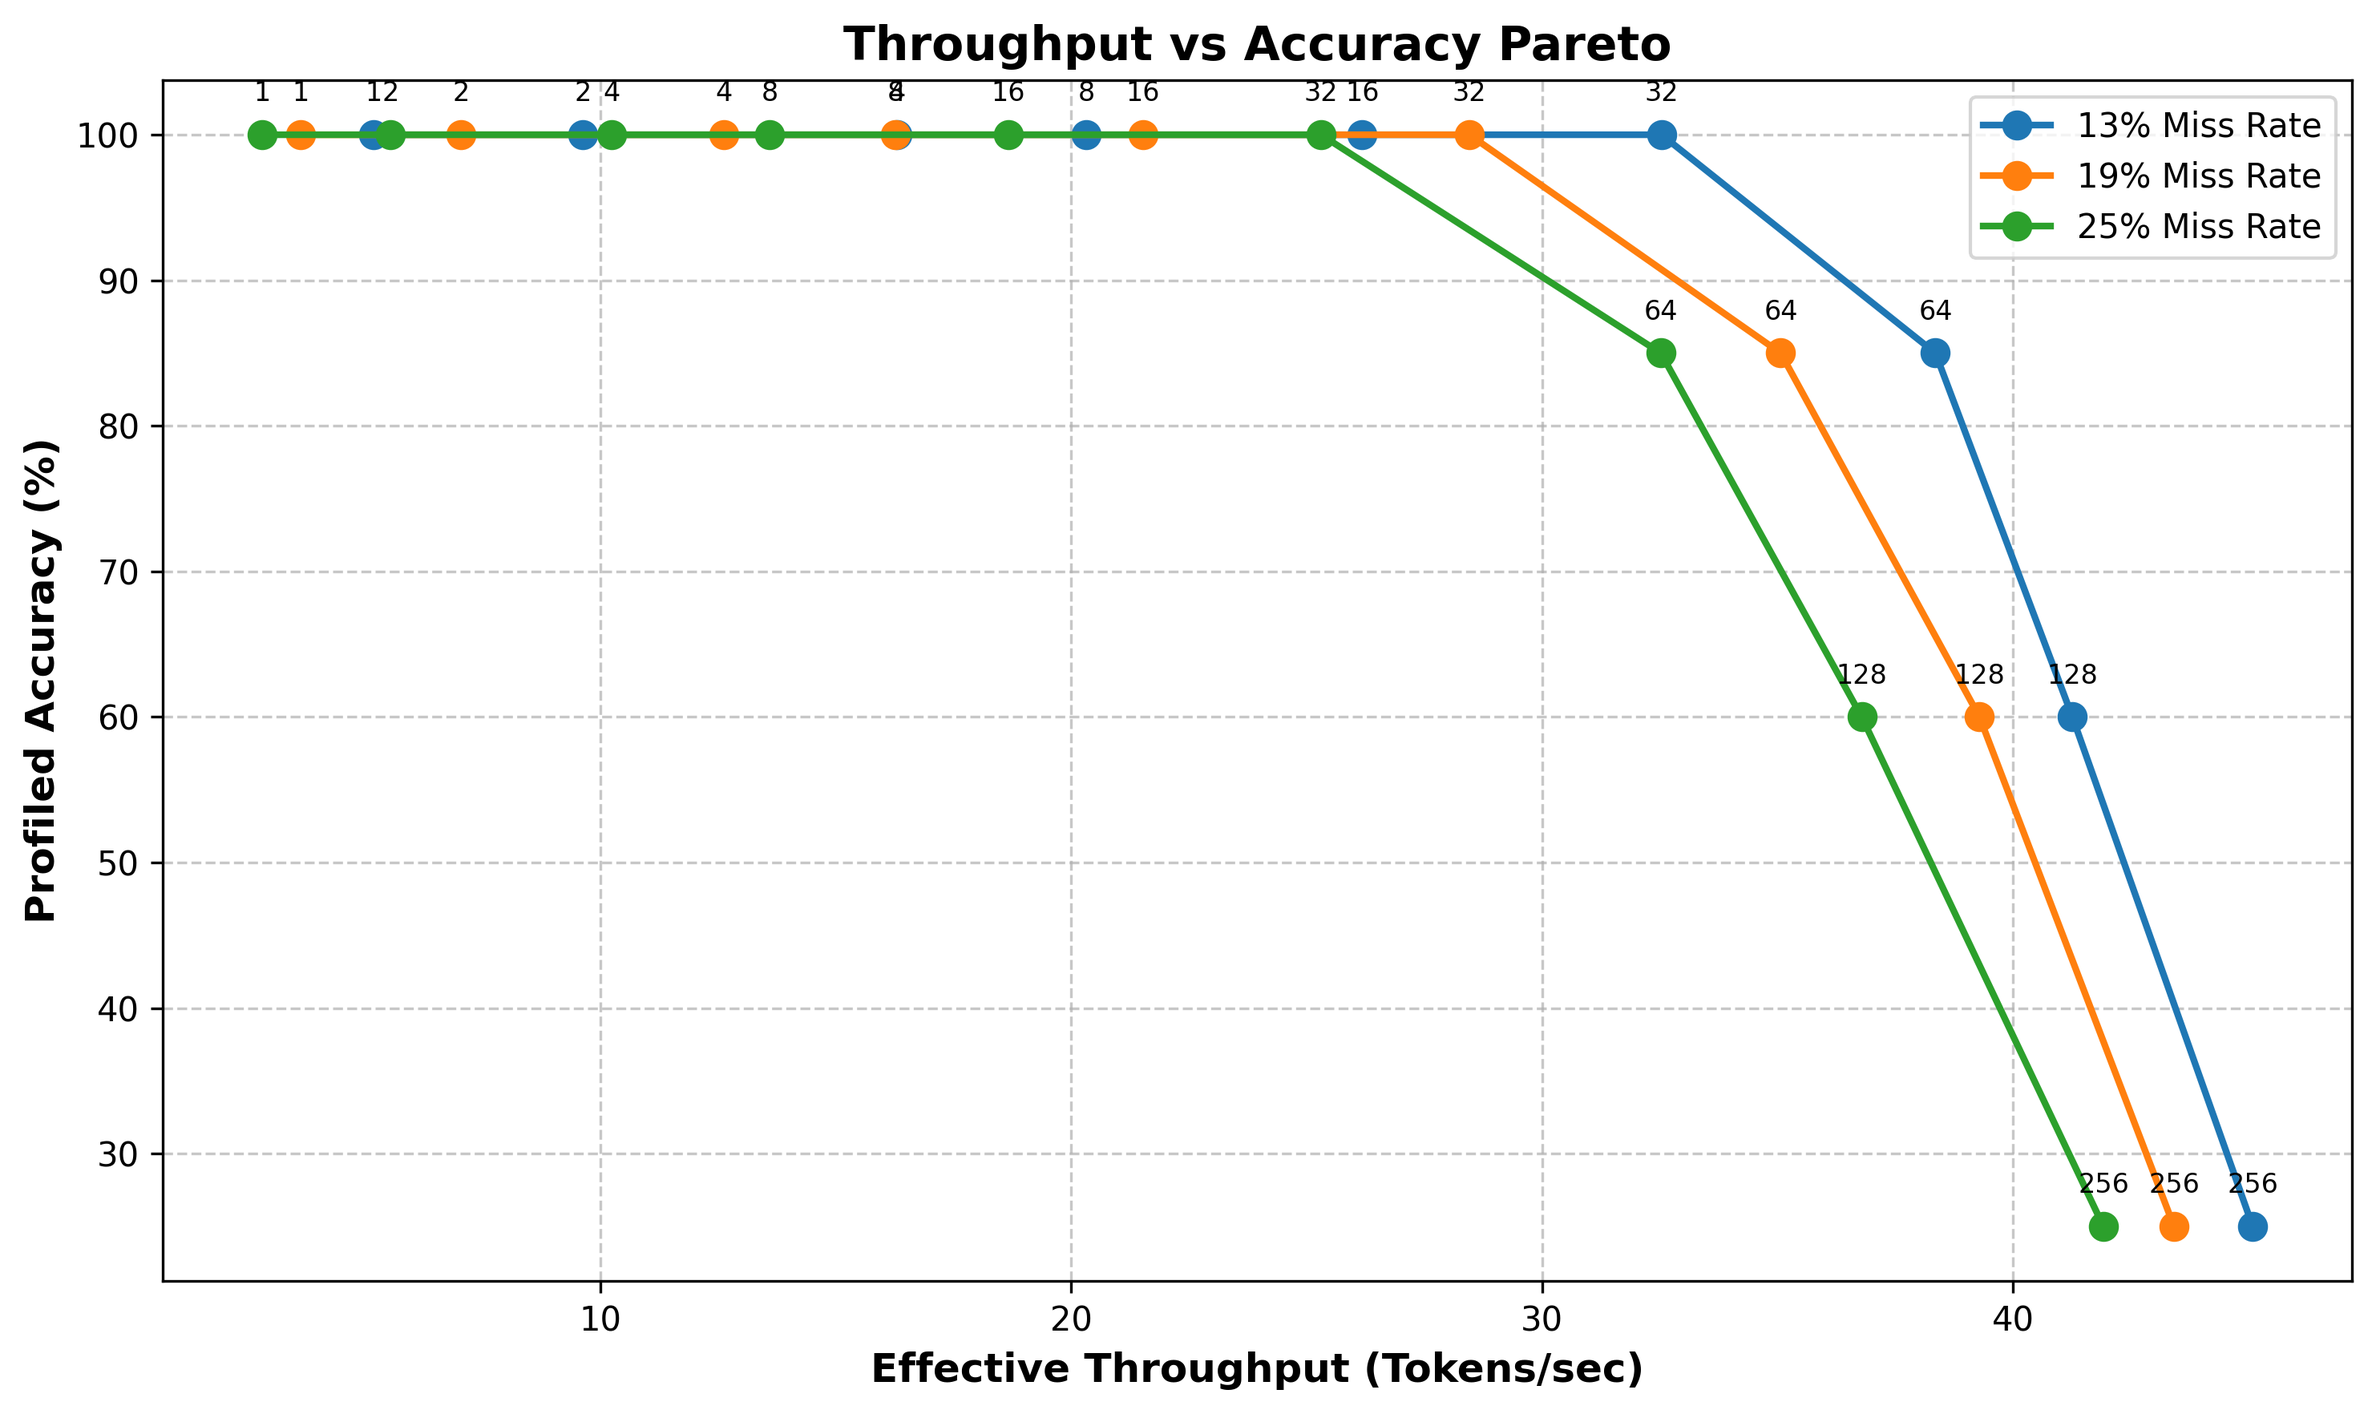
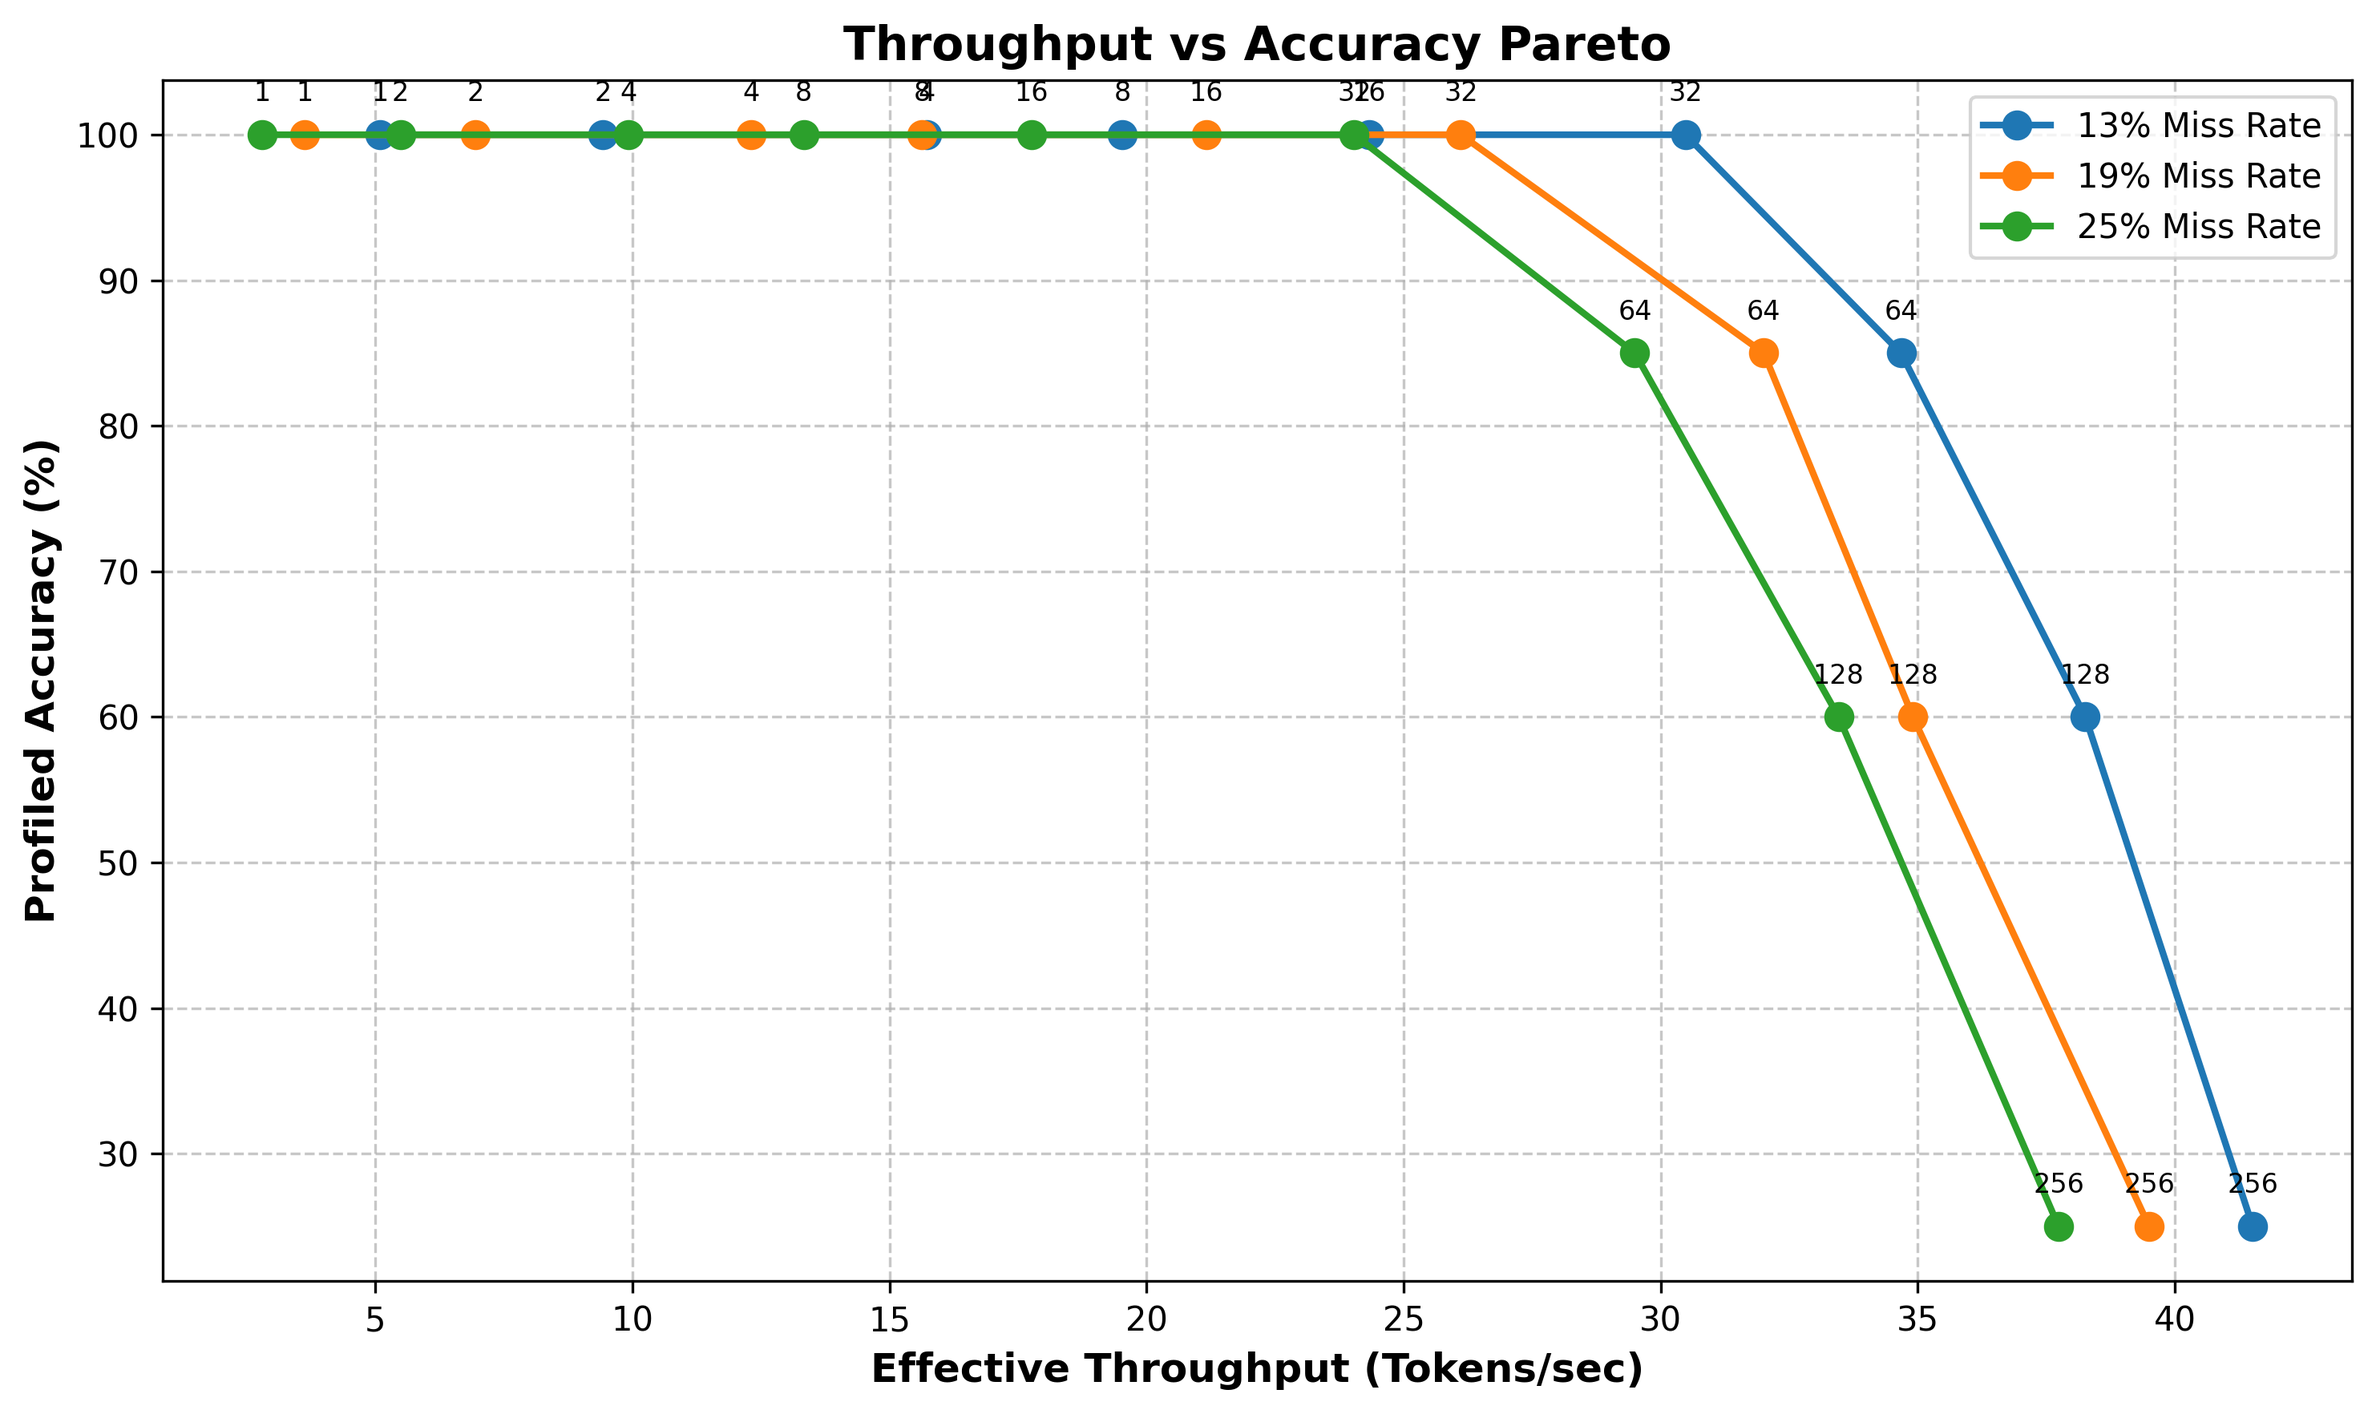
Final SCripts versions. READMEs updated. Fianl results.

diff --git a/scripts/phase3_simulation.py b/scripts/phase3_simulation.py
@@ -15,7 +15,12 @@ def run_simulation(
     num_layers=32,                 # 32 layers in Llama-3-8B
     ssd_base_latency_ms=0.05,      # Base NVMe latency
     miss_rate=0.19,                # 19% miss rate for speculative prefetcher
-    compute_time_ms_per_step=20.0  # Assumed dummy compute time (20ms/token)
+    compute_time_ms_per_step=20.0, # Assumed dummy compute time (20ms/token)
+    gc_spike_prob=0.05,            # Probability of a GC spike per step
+    gc_penalty_ms=50.0,            # Latency penalty when a GC spike occurs
+    enable_fdp=False,              # Enable FDP mode (zero GC + striping multiplier)
+    stripe_multiplier=4.0,         # Multiplier for FDP striping
+    pcie_max_mbps=7000.0           # PCIe bandwidth cap
 ):
     """
     Simulates the SolidAttention framework performance using the profiled NVMe
@@ -67,6 +72,13 @@ def run_simulation(
     context_length = 128000       # 128k tokens context
     vram_budget_tokens = 1000     # 1000 tokens VRAM budget
     
+    if enable_fdp:
+        gc_spike_prob = 0.0
+        print(f"\nFDP Mode Enabled: GC overhead eliminated. Throughput multiplier: {stripe_multiplier}x (Max: {pcie_max_mbps} MB/s)")
+    else:
+        print(f"\nStandard Mode: GC spike probability: {gc_spike_prob*100}% ({gc_penalty_ms}ms penalty)")
+
+    
     # ---------------------------------------------------------
     # 4. The Workload Loop
     # ---------------------------------------------------------
@@ -83,6 +95,9 @@ def run_simulation(
             
         block_size_mb = (bs * token_size_bytes) / (1024 * 1024)
         throughput = empirical_throughput_mbps[bs]
+        if enable_fdp:
+            throughput = min(throughput * stripe_multiplier, pcie_max_mbps)
+
         
         total_stall_penalty_ms = 0.0
         total_compute_ms = 0.0
@@ -99,10 +114,13 @@ def run_simulation(
             total_discrete_misses += discrete_missed_blocks
             missed_data_mb = discrete_missed_blocks * block_size_mb
             
+            gc_penalty_this_step = gc_penalty_ms if random.random() < gc_spike_prob else 0.0
+            
             # Stall = Fixed IO latency (incurred per layer) + Transfer time (per layer)
             # Since the forward pass is sequential, this happens `num_layers` times
             stall_penalty_per_layer = (ssd_base_latency_ms if discrete_missed_blocks > 0 else 0.0) + ((missed_data_mb / throughput) * 1000)
-            stall_penalty_ms = stall_penalty_per_layer * num_layers
+            stall_penalty_ms = stall_penalty_per_layer * num_layers + gc_penalty_this_step
+
             
             total_stall_penalty_ms += stall_penalty_ms
             total_compute_ms += compute_time_ms_per_step
@@ -160,6 +178,11 @@ if __name__ == "__main__":
     parser.add_argument("--ssd-base-latency-ms", type=float, default=0.05, help="Base NVMe latency in ms (default: 0.05)")
     parser.add_argument("--miss-rate", type=float, default=0.19, help="Miss rate for speculative prefetcher (default: 0.19)")
     parser.add_argument("--compute-time-ms-per-step", type=float, default=20.0, help="Compute time in ms per step (default: 20.0)")
+    parser.add_argument("--gc-spike-prob", type=float, default=0.05, help="Probability of GC spike (default: 0.05)")
+    parser.add_argument("--gc-penalty-ms", type=float, default=50.0, help="Latency penalty for GC spike in ms (default: 50.0)")
+    parser.add_argument("--enable-fdp", action="store_true", help="Enable FDP mode (zero GC, multiplied throughput)")
+    parser.add_argument("--stripe-multiplier", type=float, default=4.0, help="Throughput multiplier for FDP striping (default: 4.0)")
+    parser.add_argument("--pcie-max-mbps", type=float, default=7000.0, help="Max PCIe bandwidth in MB/s (default: 7000.0)")
     args = parser.parse_args()
     
     run_simulation(
@@ -172,5 +195,10 @@ if __name__ == "__main__":
         num_layers=args.num_layers,
         ssd_base_latency_ms=args.ssd_base_latency_ms,
         miss_rate=args.miss_rate,
-        compute_time_ms_per_step=args.compute_time_ms_per_step
+        compute_time_ms_per_step=args.compute_time_ms_per_step,
+        gc_spike_prob=args.gc_spike_prob,
+        gc_penalty_ms=args.gc_penalty_ms,
+        enable_fdp=args.enable_fdp,
+        stripe_multiplier=args.stripe_multiplier,
+        pcie_max_mbps=args.pcie_max_mbps
     )

diff --git a/scripts/README.md b/scripts/README.md
@@ -3,6 +3,7 @@
 This directory contains the core execution scripts representing the three phases of the SolidAttention evaluation.
 
 ## Phase 1: SSD Profiling
+*   `run_phase1.sh`: **(Primary Entry Point)** A wrapper script that automates running `phase1_fio_profiler.sh` across multiple block sizes and plotting the results.
 *   `phase1_fio_profiler.sh`: A Bash script that uses `fio` to measure random read throughput on the host's NVMe SSD across various block sizes.
     *   **Configurable Parameters (via CLI or environment variables)**:
         *   `TOKEN_SIZE_KB`: KV cache size in KB per token. (Default: `4`, CLI flag `-t` or `--token-size`, or positional `$1`)
@@ -22,10 +23,6 @@ Located in `scripts/mlx/`. These scripts use the Apple-native `mlx` and `mlx-lm`
         *   `--trials`: Number of trials to run per block size configuration. (Default: `20`)
         *   `--haystacks`: List of haystack filenames located in `utils/` to distribute the trials across. (Default: `us_haystack.txt ww2_haystack.txt`)
         *   `--verbose`: Flag to print 1-2 lines of context surrounding the needle injection.
-*   `mlx/phase2_longbench_profiler.py`: Evaluates the model on the LongBench (HotpotQA) dataset.
-    *   **Configurable Parameters (via CLI)**:
-        *   `--model`: The Hugging Face or MLX Community model ID.
-        *   `--samples`: The number of dataset samples to evaluate. (Default: `3`)
 
 ### 2. PyTorch Implementation (Cross-Platform / Reference)
 Located in `scripts/pytorch/`. These are the standard cross-platform scripts. **Note:** On Mac, these are hardcoded to run on the CPU (`device_map="cpu"`) to avoid system crashes. They will take a long time to run.
@@ -36,24 +33,27 @@ Located in `scripts/pytorch/`. These are the standard cross-platform scripts. **
         *   `--trials`: Number of trials to run per block size configuration. (Default: `20`)
         *   `--haystacks`: List of haystack filenames located in `utils/` to distribute the trials across. (Default: `us_haystack.txt ww2_haystack.txt`)
         *   `--verbose`: Flag to print 1-2 lines of context surrounding the needle injection.
-*   `pytorch/phase2_longbench_profiler.py`: Evaluates the model on the LongBench (HotpotQA) dataset.
-    *   **Configurable Parameters (via CLI)**:
-        *   `--model`: The Hugging Face model ID.
-        *   `--samples`: The number of dataset samples to evaluate. (Default: `3`)).
 ### Common Configurable Parameters (in scripts)
 The following internal parameters can be modified directly within both the MLX and PyTorch scripts:
 *   `block_sizes` list: Defines the token block sizes to evaluate.
 *   `needle_fact` (in Accuracy Profiler): The fact to hide in the context.
 
 ## Phase 3: Trade-off Simulation
-*   `phase3_simulation.py`: Combines the empirical throughput from Phase 1 and the empirical accuracy from Phase 2 to simulate I/O stalls and plot the final SSD Throughput vs Model Accuracy trade-off curve.
+*   `run_phase3.sh`: **(Primary Entry Point)** A wrapper script that automates running `phase3_simulation.py` for multiple configurations/models and generates the combined Pareto charts.
+*   `phase3_simulation.py`: Combines the empirical throughput from Phase 1 and the empirical accuracy from Phase 2 to simulate I/O stalls and generate trade-off results.
     *   **Command-Line Arguments**:
-        *   `--model`: Hugging Face model ID to graph against (e.g. `meta-llama/Meta-Llama-3.1-8B`).
-    *   **Configurable Parameters (in script)**:
-        *   `context_length`: The length of the context in tokens (default `128000`).
-        *   `vram_budget_tokens`: The max budget of VRAM in tokens (default `1000`).
-        *   `selected_budget_tokens`: The token budget allocated for dynamically fetched blocks (default `500`).
-        *   `generation_steps`: The number of generation steps to simulate (default `1000`).
-        *   `token_size_bytes`: Byte size per token KV (default `131072`).
-        *   `ssd_base_latency_ms`: Base IO latency per fetch in ms (default `0.05`).
-        *   `miss_rate`: Projected speculative miss rate (default `0.19`).
+        *   `--throughput`: Path to the throughput JSON file.
+        *   `--accuracy`: Path to the accuracy JSON file.
+        *   `--output`: Path to save the output simulation results JSON.
+        *   `--selected-budget-tokens`: Selected budget tokens (Top-K) (default: `500`).
+        *   `--generation-steps`: Number of generation steps (default: `1000`).
+        *   `--token-size-bytes`: Token size in bytes per layer (default: `4096`).
+        *   `--num-layers`: Number of layers in model (default: `32`).
+        *   `--ssd-base-latency-ms`: Base NVMe latency in ms (default: `0.05`).
+        *   `--miss-rate`: Miss rate for speculative prefetcher (default: `0.19`).
+        *   `--compute-time-ms-per-step`: Compute time in ms per step (default: `20.0`).
+        *   `--gc-spike-prob`: Probability of GC spike (default: `0.05`).
+        *   `--gc-penalty-ms`: Latency penalty for GC spike in ms (default: `50.0`).
+        *   `--enable-fdp`: Enable FDP mode (zero GC, multiplied throughput).
+        *   `--stripe-multiplier`: Throughput multiplier for FDP striping (default: `4.0`).
+        *   `--pcie-max-mbps`: Max PCIe bandwidth in MB/s (default: `7000.0`).

diff --git a/README.md b/README.md
@@ -20,30 +20,42 @@ conda activate storage-systems
 ```
 
 ### Phase 1: Storage Profiling
-Measures the NVMe random read throughput of your machine across varying block sizes using `fio`.
+Measures the NVMe random read throughput of your machine across varying block sizes using `fio` and plots the results.
 ```bash
-./scripts/phase1_fio_profiler.sh
+./scripts/run_phase1.sh
 ```
 
 ### Phase 2: Model Accuracy Profiling
-Evaluates the model's performance on Needle-In-A-Haystack and LongBench when dropping chunks of its attention context based on different block sizes.
+Evaluates the model's performance on Needle-In-A-Haystack when dropping chunks of its attention context based on different block sizes.
 
 For Apple Silicon (MLX):
 ```bash
 python scripts/mlx/phase2_accuracy_profiler.py --model mlx-community/Meta-Llama-3.1-8B-4bit --trials 20 --haystacks us_haystack.txt ww2_haystack.txt --verbose
-python scripts/mlx/phase2_longbench_profiler.py --model mlx-community/Meta-Llama-3.1-8B-4bit --samples 3
 ```
 
 For **PyTorch**:
 ```bash
 python scripts/pytorch/phase2_accuracy_profiler.py --model meta-llama/Meta-Llama-3.1-8B --trials 20 --haystacks us_haystack.txt ww2_haystack.txt --verbose
-python scripts/pytorch/phase2_longbench_profiler.py --model meta-llama/Meta-Llama-3.1-8B --samples 3
 ```
 
 ### 3. Simulation & Trade-off Plotting (Phase 3)
-Combine the results to plot the Pareto front of the SolidAttention tradeoff:
+Run simulations and combine the results across multiple models to plot the Pareto front of the SolidAttention tradeoff:
 
 ```bash
-python scripts/phase3_simulation.py --model Meta-Llama-3.1-8B-4bit
+./scripts/run_phase3.sh
 ```
-*(Optionally pass `--dummy` to test the simulation using dummy data without running the 30-sample evaluations)*
+
+You can also run the underlying python script manually for a single configuration:
+```bash
+python scripts/phase3_simulation.py --throughput <path-to-json> --accuracy <path-to-json> --output <path-to-json>
+```
+
+**FDP Simulation Mode**
+You can also simulate the FDP (Flexible Data Placement) hardware improvement, which models cross-channel striping and zero Garbage Collection (GC) overhead:
+```bash
+python scripts/phase3_simulation.py --throughput <path-to-json> --accuracy <path-to-json> --output <path-to-json> --enable-fdp
+```
+*Optional standard simulation flags:*
+* `--gc-spike-prob 0.05` (5% chance of a GC spike)
+* `--gc-penalty-ms 50.0` (Stall penalty during GC)
+* `--stripe-multiplier 4.0` (FDP throughput multiplier simulating 4-channel striping)

diff --git a/utils/README.md b/utils/README.md
@@ -4,5 +4,7 @@ This directory contains utility and helper scripts to support the main evaluatio
 
 ## Contents
 *   `us_haystack.txt` & `ww2_haystack.txt`: Natural language text corpus files used as background noise (the "haystack") for the Phase 2 Needle-In-A-Haystack evaluation.
-*   `plot_phase1.py`: Reads the output data from Phase 1 and generates a logarithmic Matplotlib chart (`phase1_throughput.png`) visualizing how SSD throughput scales with block size. All outputs are saved to the `outputs/` directory by default.
+*   `plot_phase1.py`: Reads the output data from Phase 1 and generates a logarithmic Matplotlib chart (`phase1_throughput.png`) visualizing how SSD throughput scales with block size.
     *   **Configurable Parameters**: `--json_path`, `--token_size`, `--output_filename` (aliases: `--output`, `-o`).
+*   `plot_phase3.py`: Reads simulation output JSON files from Phase 3 and generates combined Pareto and dual-axis charts (`solidattention_tradeoff_combined.png` and `pareto_combined.png`).
+    *   **Configurable Parameters**: `--inputs` (list of JSON paths), `--output_dir`, `--labels` (optional custom labels).

diff --git a/outputs/README.md b/outputs/README.md
@@ -2,6 +2,7 @@
 
 This directory is the centralized location for all generated assets, charts, and benchmark results produced by the evaluation scripts.
 
-## Expected Outputs
-*   `phase1_throughput.png`: The SSD throughput graph generated by `utils/plot_phase1.py`.
-*   `solidattention_tradeoff_{model_name}.png` (or `dummy_solidattention_tradeoff_{model_name}.png` for dummy runs): The final dual-axis simulation chart generated by `scripts/phase3_simulation.py`.
+## Directory Structure
+*   `phase1/`: Contains SSD throughput JSON results from `fio` and the corresponding generated graphs from `utils/plot_phase1.py`.
+*   `phase2/`: Contains the Needle-In-A-Haystack accuracy evaluation JSON results.
+*   `phase3/`: Contains the simulation JSON results and final Pareto and tradeoff charts generated by `utils/plot_phase3.py`.
